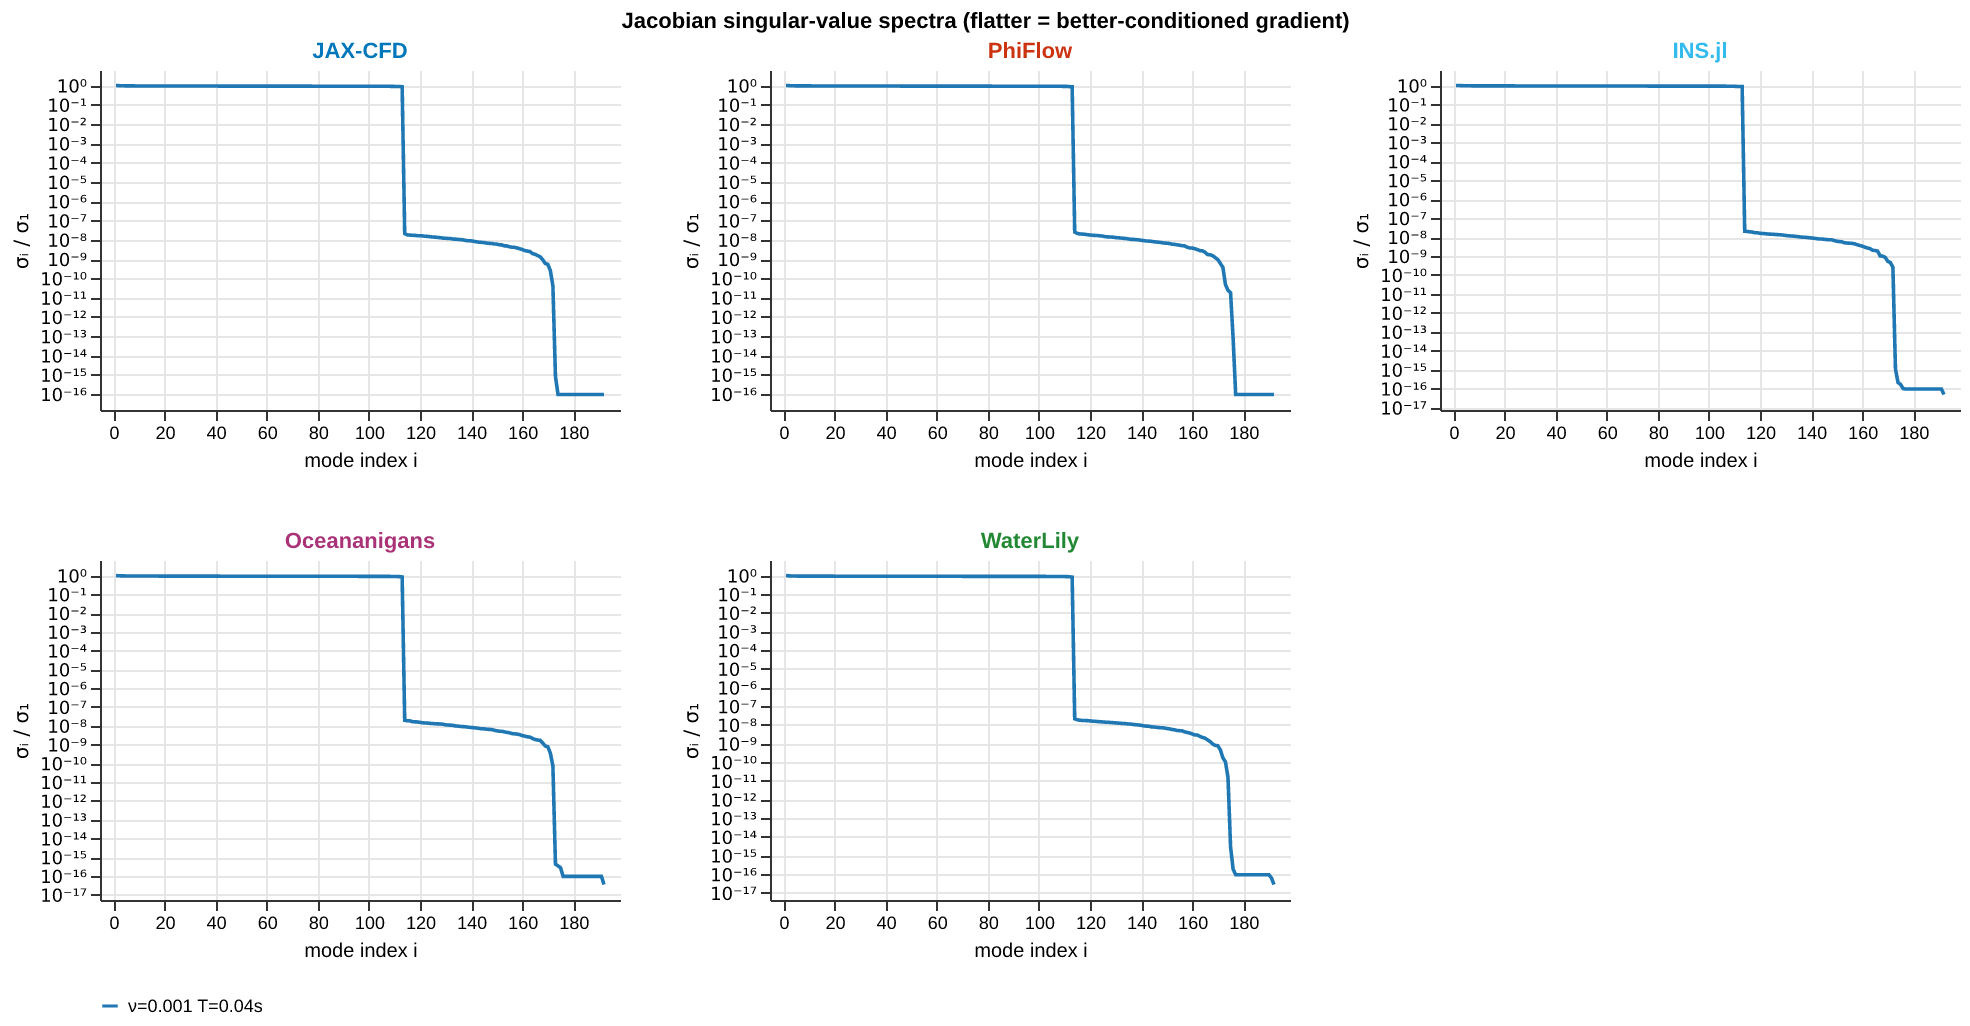
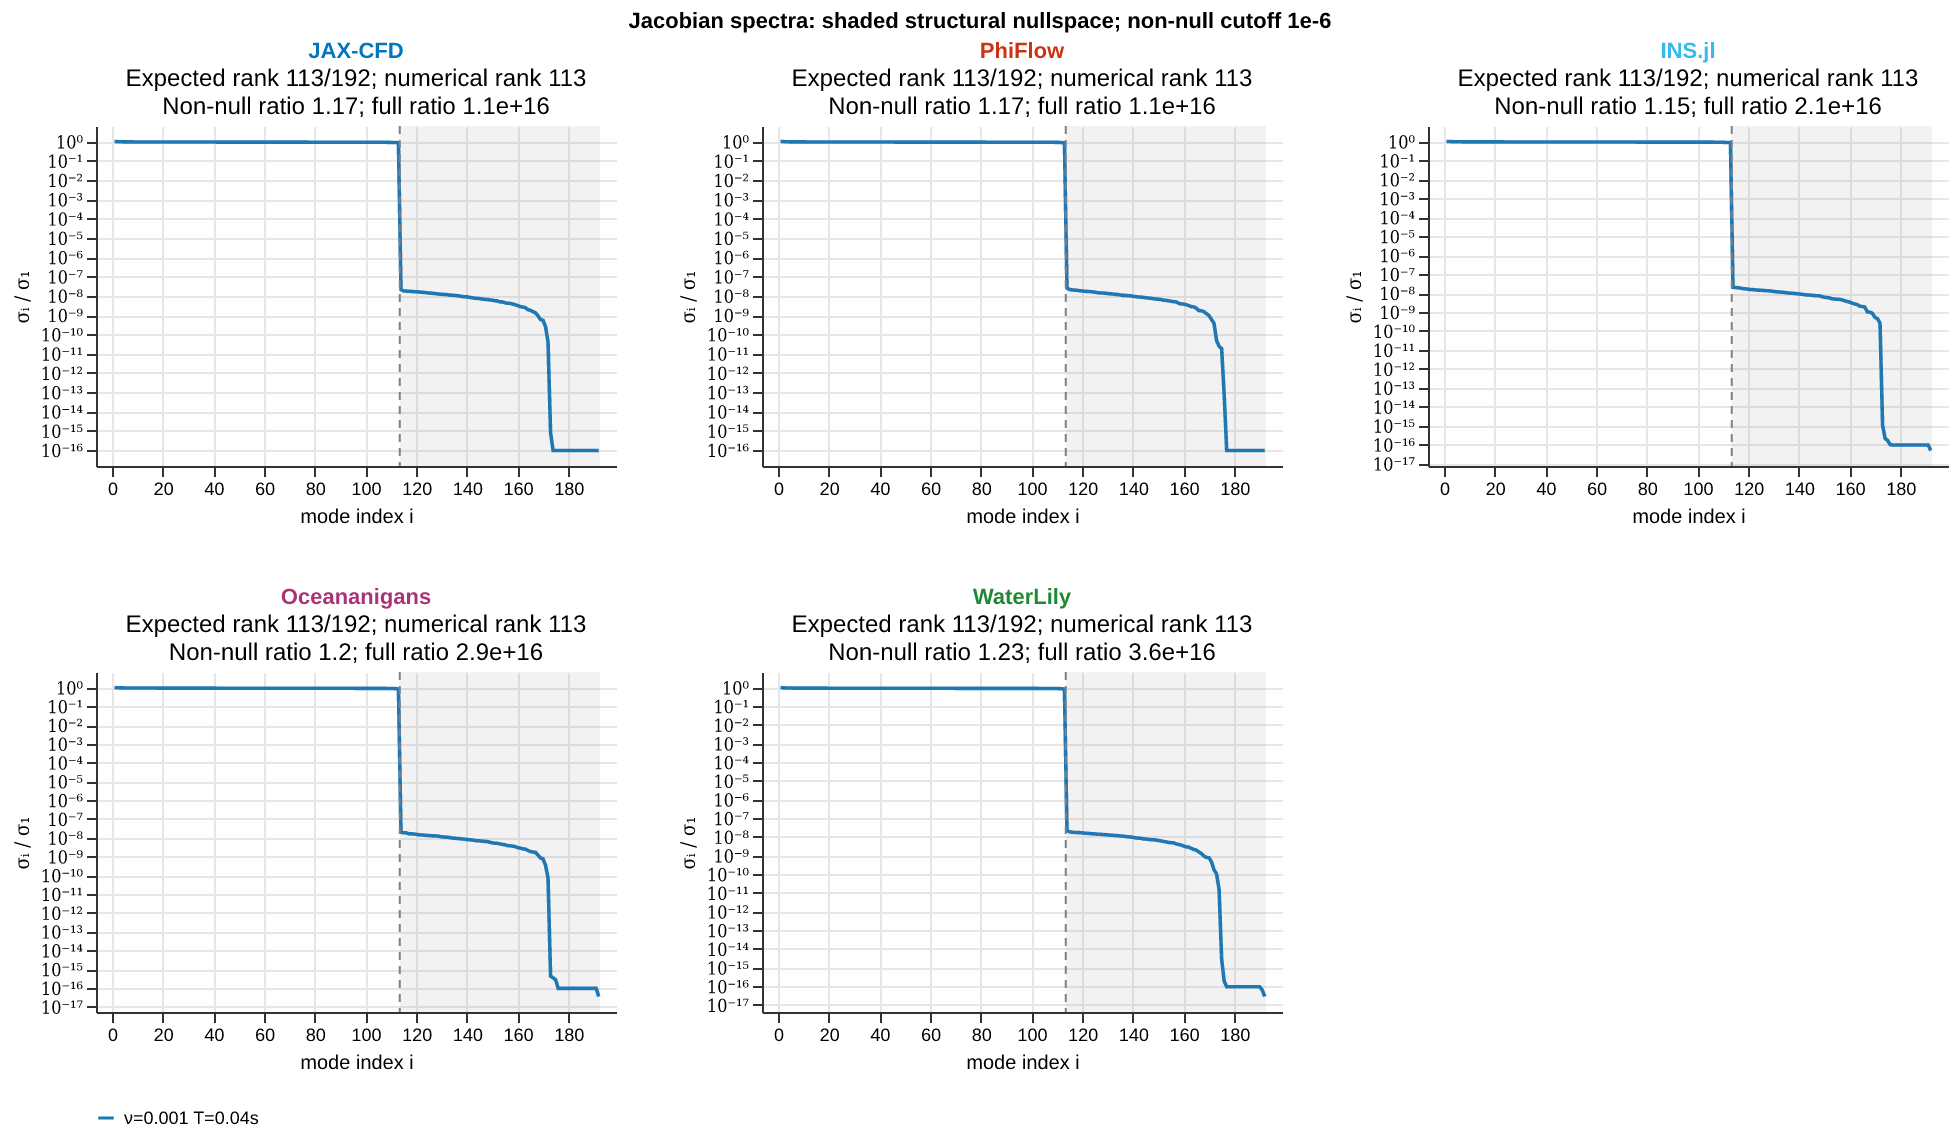
docs: publish structural-rank diagnostics and paired flow overlays

diff --git a/ci-gallery-20261029/README.md b/ci-gallery-20261029/README.md
@@ -9,3 +9,7 @@ The combined initial-condition figure contains all three temperature fields. All
 The receipt records source, numerical inputs and output hashes. Vega-Lite sidecars accompany interactive figures.
 
 The GIF and its poster were subsequently recolored on Slurm job 3615508, source `1cb7256`: temperature-anomaly error uses a red ramp and velocity error a blue ramp, both black at zero. Five animation tests passed; data, fixed scales and all 101 frames are unchanged. `palette_validation_receipt.json` supersedes the earlier receipt for these outputs.
+
+Latest spectrum and animation render: Slurm job 3616275, plot source `dac275a`, 24 focused tests passed. Spectrum panels mark expected rank 113/192 and report numerical rank with relative cutoff 1e-6, non-null singular-value ratio and full ratio separately. These are short resting-state, packed-coordinate diagnostics, not long-rollout conditioning guarantees.
+
+The four-column GIF now shows each arm’s own forward field in gray, with red temperature-error and blue velocity-error contours. Scales are fixed in time but differ by solver row; corrected and uncorrected arms share each row’s scale. Compare colors within a row and use printed physical limits across rows. `diagnostic_validation_receipt.json` supersedes previous receipts for these five updated assets.
